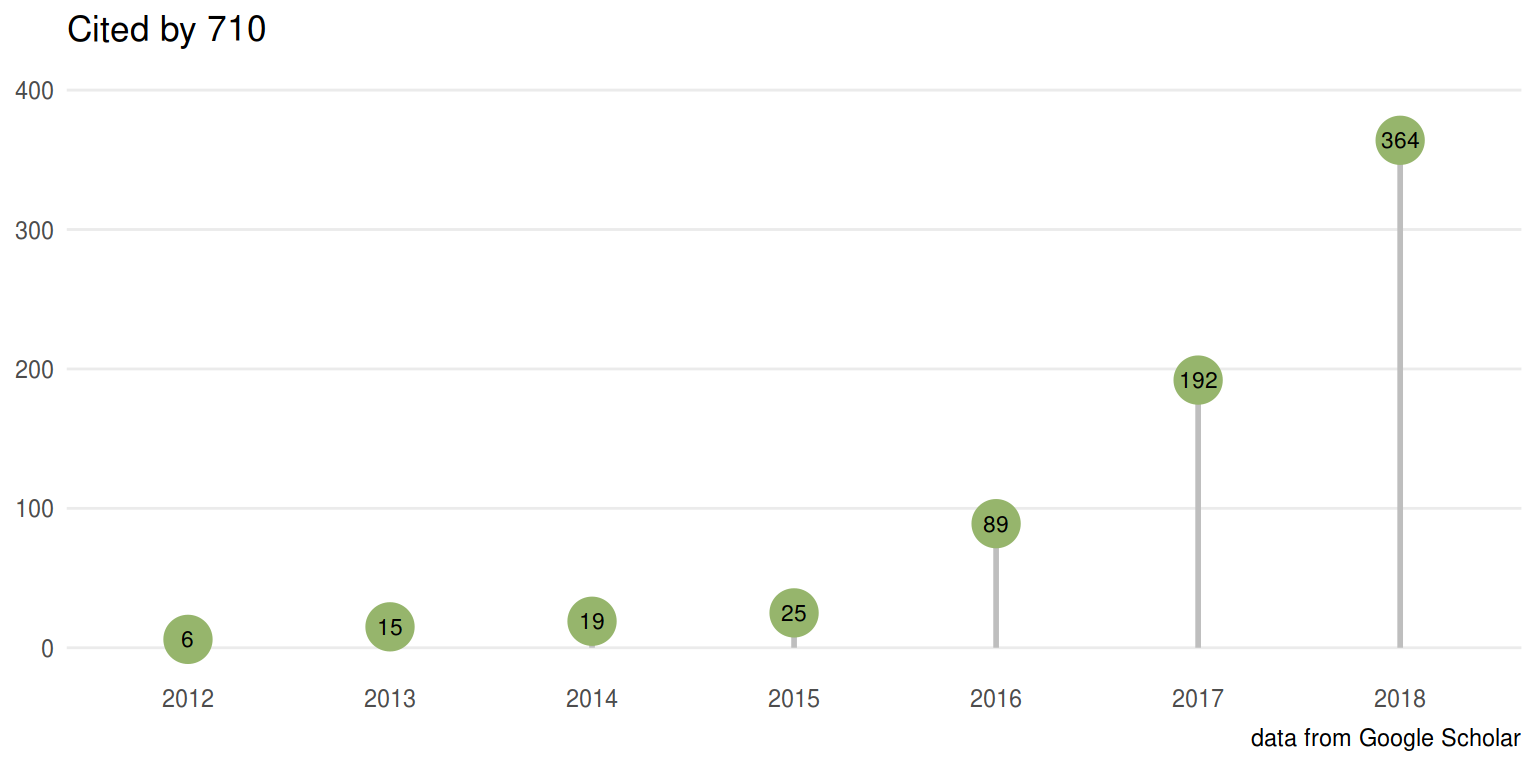
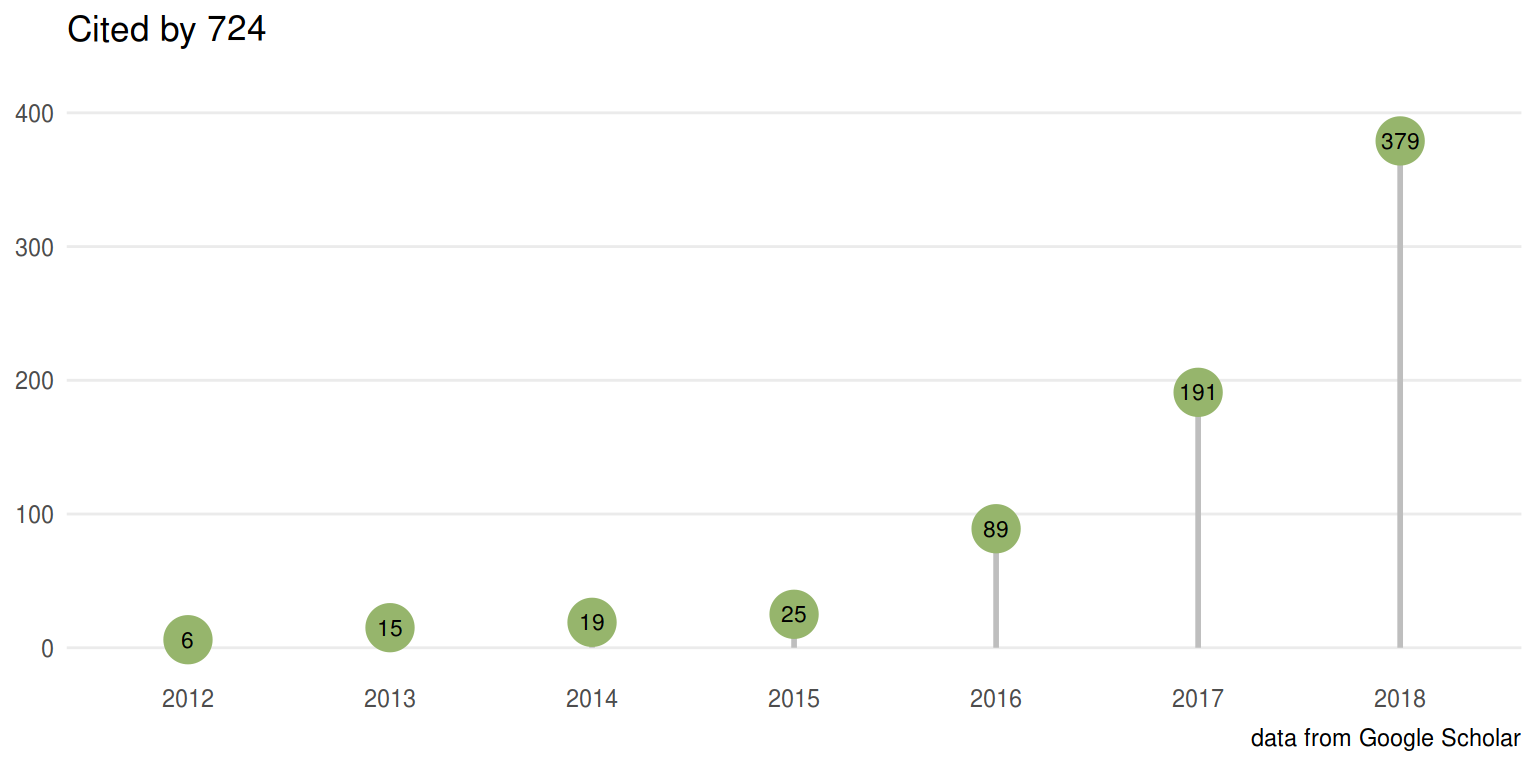
update

diff --git a/wclusterProfiler/content/index.html b/wclusterProfiler/content/index.html
@@ -9,9 +9,9 @@ weight: 1
 
 <p><img src="https://raw.githubusercontent.com/Bioconductor/BiocStickers/master/clusterProfiler/clusterProfiler.png" height="200" align="right" /></p>
 <p><link rel="stylesheet" href="https://guangchuangyu.github.io/css/font-awesome.min.css"></p>
-<p><a href="https://bioconductor.org/packages/clusterProfiler"><img src="https://img.shields.io/badge/release%20version-3.8.1-blue.svg?style=flat" alt="releaseVersion" /></a>
-<a href="https://github.com/guangchuangyu/clusterProfiler"><img src="https://img.shields.io/badge/devel%20version-3.9.2-blue.svg?style=flat" alt="develVersion" /></a>
-<a href="https://bioconductor.org/packages/stats/bioc/clusterProfiler"><img src="https://img.shields.io/badge/downloads-84980/total-blue.svg?style=flat" alt="total" /></a>
+<p><a href="https://bioconductor.org/packages/clusterProfiler"><img src="https://img.shields.io/badge/release%20version-3.10.0-blue.svg?style=flat" alt="releaseVersion" /></a>
+<a href="https://github.com/guangchuangyu/clusterProfiler"><img src="https://img.shields.io/badge/devel%20version-3.11.0-blue.svg?style=flat" alt="develVersion" /></a>
+<a href="https://bioconductor.org/packages/stats/bioc/clusterProfiler"><img src="https://img.shields.io/badge/downloads-86466/total-blue.svg?style=flat" alt="total" /></a>
 <a href="https://bioconductor.org/packages/stats/bioc/clusterProfiler"><img src="https://img.shields.io/badge/downloads-3097/month-blue.svg?style=flat" alt="month" /></a></p>
 <p>The <a href="https://bioconductor.org/packages/clusterProfiler/">clusterProfiler</a> package implements methods to analyze and visualize functional profiles of genomic coordinates (supported by ChIPseeker), gene and gene clusters.</p>
 <p><a href="https://bioconductor.org/packages/clusterProfiler/">clusterProfiler</a> is released within the <a href="https://bioconductor.org/packages/clusterProfiler">Bioconductor</a> project and the source code is hosted on <a href="https://github.com/GuangchuangYu/clusterProfiler"><i class="fa fa-github fa-lg"></i> GitHub</a>.</p>
@@ -25,7 +25,7 @@ weight: 1
 <p><a href="http://dx.doi.org/10.1089/omi.2011.0118"><img src="https://img.shields.io/badge/doi-10.1089/omi.2011.0118-blue.svg?style=flat" alt="doi" /></a>
 <a href="https://www.altmetric.com/details/681089"><img src="https://img.shields.io/badge/Altmetric-29-blue.svg?style=flat" alt="Altmetric" /></a>
 <a href="http://online.liebertpub.com/action/showMostCitedArticles?journalCode=omi"><img src="https://img.shields.io/badge/2nd%20most%20cited%20paper-in%20OMICS-blue.svg?style=flat" /></a>
-<a href="https://scholar.google.com.hk/scholar?oi=bibs&amp;hl=en&amp;cites=2349076811020942117"><img src="https://img.shields.io/badge/cited%20by-700-blue.svg?style=flat" alt="citation" /></a>
+<a href="https://scholar.google.com.hk/scholar?oi=bibs&amp;hl=en&amp;cites=2349076811020942117"><img src="https://img.shields.io/badge/cited%20by-724-blue.svg?style=flat" alt="citation" /></a>
 <img src="https://img.shields.io/badge/ESI-Highly%20Cited%20Paper-blue.svg?style=flat" /></p>
 <p><strong>Yu G</strong>, Wang L, Han Y and He Q<sup>*</sup>. clusterProfiler: an R package for comparing biological themes among gene clusters.
 <strong><em>OMICS: A Journal of Integrative Biology</em></strong>. 2012, 16(5):284-287.</p>
@@ -147,6 +147,7 @@ biocLite(&quot;clusterProfiler&quot;)</code></pre>
 <li><a href="https://www.bioconductor.org/packages/methylGSA">methylGSA</a>: Gene Set Analysis Using the Outcome of Differential Methylation</li>
 <li><a href="https://www.bioconductor.org/packages/miRsponge">miRsponge</a>: Identification and analysis of miRNA sponge interaction networks and modules</li>
 <li><a href="https://www.bioconductor.org/packages/MoonlightR">MoonlightR</a>: Identify oncogenes and tumor suppressor genes from omics data</li>
+<li><a href="https://www.bioconductor.org/packages/RNASeqR">RNASeqR</a>: RNA-Seq workflow for case-control study</li>
 <li><a href="https://www.bioconductor.org/packages/TCGAbiolinksGUI">TCGAbiolinksGUI</a>: “TCGAbiolinksGUI: A Graphical User Interface to analyze cancer molecular and clinical data”</li>
 </ul>
 </div>

diff --git a/docs/clusterProfiler/index.html b/docs/clusterProfiler/index.html
@@ -303,9 +303,9 @@
 
 				<p><img src="https://raw.githubusercontent.com/Bioconductor/BiocStickers/master/clusterProfiler/clusterProfiler.png" height="200" align="right" /></p>
 <p><link rel="stylesheet" href="https://guangchuangyu.github.io/css/font-awesome.min.css"></p>
-<p><a href="https://bioconductor.org/packages/clusterProfiler"><img src="https://img.shields.io/badge/release%20version-3.8.1-blue.svg?style=flat" alt="releaseVersion" /></a>
-<a href="https://github.com/guangchuangyu/clusterProfiler"><img src="https://img.shields.io/badge/devel%20version-3.9.2-blue.svg?style=flat" alt="develVersion" /></a>
-<a href="https://bioconductor.org/packages/stats/bioc/clusterProfiler"><img src="https://img.shields.io/badge/downloads-84980/total-blue.svg?style=flat" alt="total" /></a>
+<p><a href="https://bioconductor.org/packages/clusterProfiler"><img src="https://img.shields.io/badge/release%20version-3.10.0-blue.svg?style=flat" alt="releaseVersion" /></a>
+<a href="https://github.com/guangchuangyu/clusterProfiler"><img src="https://img.shields.io/badge/devel%20version-3.11.0-blue.svg?style=flat" alt="develVersion" /></a>
+<a href="https://bioconductor.org/packages/stats/bioc/clusterProfiler"><img src="https://img.shields.io/badge/downloads-86466/total-blue.svg?style=flat" alt="total" /></a>
 <a href="https://bioconductor.org/packages/stats/bioc/clusterProfiler"><img src="https://img.shields.io/badge/downloads-3097/month-blue.svg?style=flat" alt="month" /></a></p>
 <p>The <a href="https://bioconductor.org/packages/clusterProfiler/">clusterProfiler</a> package implements methods to analyze and visualize functional profiles of genomic coordinates (supported by ChIPseeker), gene and gene clusters.</p>
 <p><a href="https://bioconductor.org/packages/clusterProfiler/">clusterProfiler</a> is released within the <a href="https://bioconductor.org/packages/clusterProfiler">Bioconductor</a> project and the source code is hosted on <a href="https://github.com/GuangchuangYu/clusterProfiler"><i class="fa fa-github fa-lg"></i> GitHub</a>.</p>
@@ -319,7 +319,7 @@
 <p><a href="http://dx.doi.org/10.1089/omi.2011.0118"><img src="https://img.shields.io/badge/doi-10.1089/omi.2011.0118-blue.svg?style=flat" alt="doi" /></a>
 <a href="https://www.altmetric.com/details/681089"><img src="https://img.shields.io/badge/Altmetric-29-blue.svg?style=flat" alt="Altmetric" /></a>
 <a href="http://online.liebertpub.com/action/showMostCitedArticles?journalCode=omi"><img src="https://img.shields.io/badge/2nd%20most%20cited%20paper-in%20OMICS-blue.svg?style=flat" /></a>
-<a href="https://scholar.google.com.hk/scholar?oi=bibs&amp;hl=en&amp;cites=2349076811020942117"><img src="https://img.shields.io/badge/cited%20by-700-blue.svg?style=flat" alt="citation" /></a>
+<a href="https://scholar.google.com.hk/scholar?oi=bibs&amp;hl=en&amp;cites=2349076811020942117"><img src="https://img.shields.io/badge/cited%20by-724-blue.svg?style=flat" alt="citation" /></a>
 <img src="https://img.shields.io/badge/ESI-Highly%20Cited%20Paper-blue.svg?style=flat" /></p>
 <p><strong>Yu G</strong>, Wang L, Han Y and He Q<sup>*</sup>. clusterProfiler: an R package for comparing biological themes among gene clusters.
 <strong><em>OMICS: A Journal of Integrative Biology</em></strong>. 2012, 16(5):284-287.</p>
@@ -441,6 +441,7 @@ biocLite(&quot;clusterProfiler&quot;)</code></pre>
 <li><a href="https://www.bioconductor.org/packages/methylGSA">methylGSA</a>: Gene Set Analysis Using the Outcome of Differential Methylation</li>
 <li><a href="https://www.bioconductor.org/packages/miRsponge">miRsponge</a>: Identification and analysis of miRNA sponge interaction networks and modules</li>
 <li><a href="https://www.bioconductor.org/packages/MoonlightR">MoonlightR</a>: Identify oncogenes and tumor suppressor genes from omics data</li>
+<li><a href="https://www.bioconductor.org/packages/RNASeqR">RNASeqR</a>: RNA-Seq workflow for case-control study</li>
 <li><a href="https://www.bioconductor.org/packages/TCGAbiolinksGUI">TCGAbiolinksGUI</a>: “TCGAbiolinksGUI: A Graphical User Interface to analyze cancer molecular and clinical data”</li>
 </ul>
 </div>

diff --git a/wclusterProfiler/content/featured-articles/index.html b/wclusterProfiler/content/featured-articles/index.html
@@ -1,5 +1,5 @@
 ---
-date: 2017-07-18T21:08:13+08:00
+date: 2018-07-18T21:08:13+08:00
 title: 'Featured Articles'
 weight: 20
 ---
@@ -11,6 +11,8 @@ weight: 20
 <p><img src="/featured-articles/index_files/figure-html/citation-1.png" width="768" /></p>
 <div id="section" class="section level2">
 <h2><i class="fa fa-calendar"></i> 2018</h2>
+<p><a href="https://www.nature.com/articles/s41477-018-0280-0">RNA polymerase II activity revealed by GRO-seq and pNET-seq in <em>Arabidopsis</em></a>.
+<strong><em>Nature Plants</em></strong>.</p>
 <p><a href="https://doi.org/10.1093/nar/gky779">Identification of the RNA polymerase I-RNA interactome</a>.
 <strong><em>Nucleic Acids Research</em></strong>. gky779</p>
 <p><a href="https://www.sciencedirect.com/science/article/pii/S1934590918304028">Epidermal Tissue Adapts to Restrain Progenitors Carrying Clonal p53 Mutations</a>.
